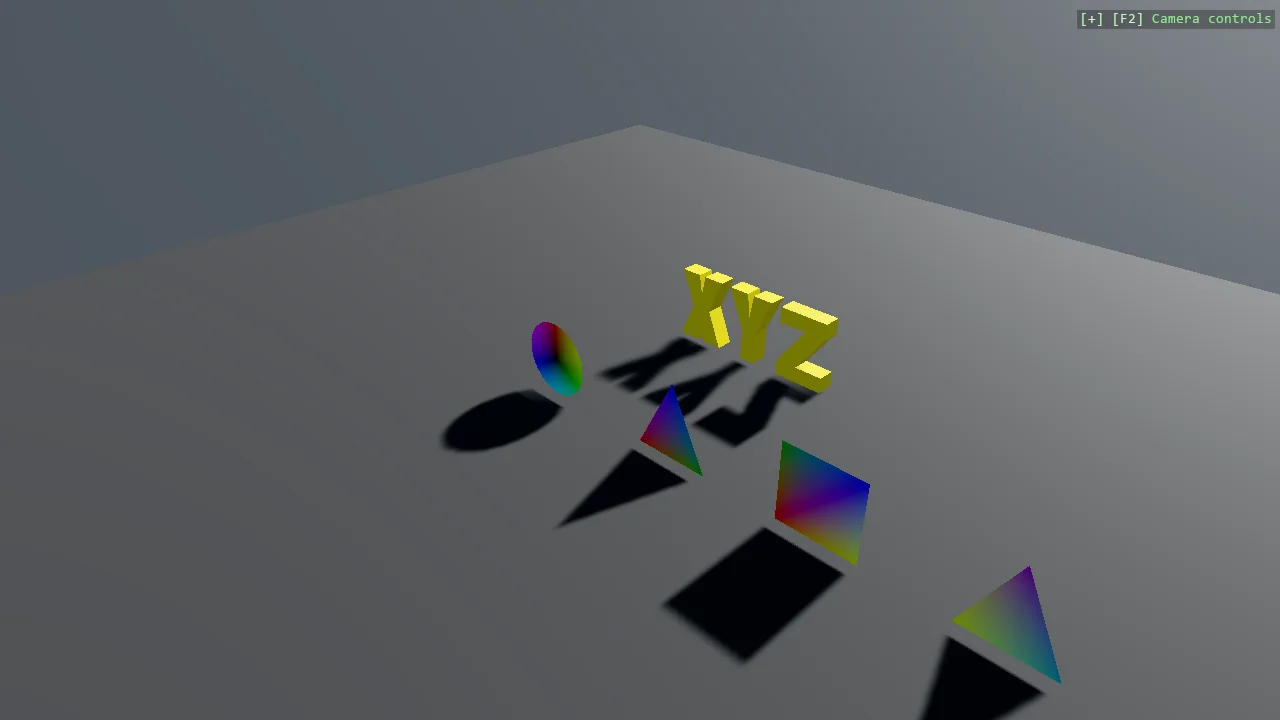
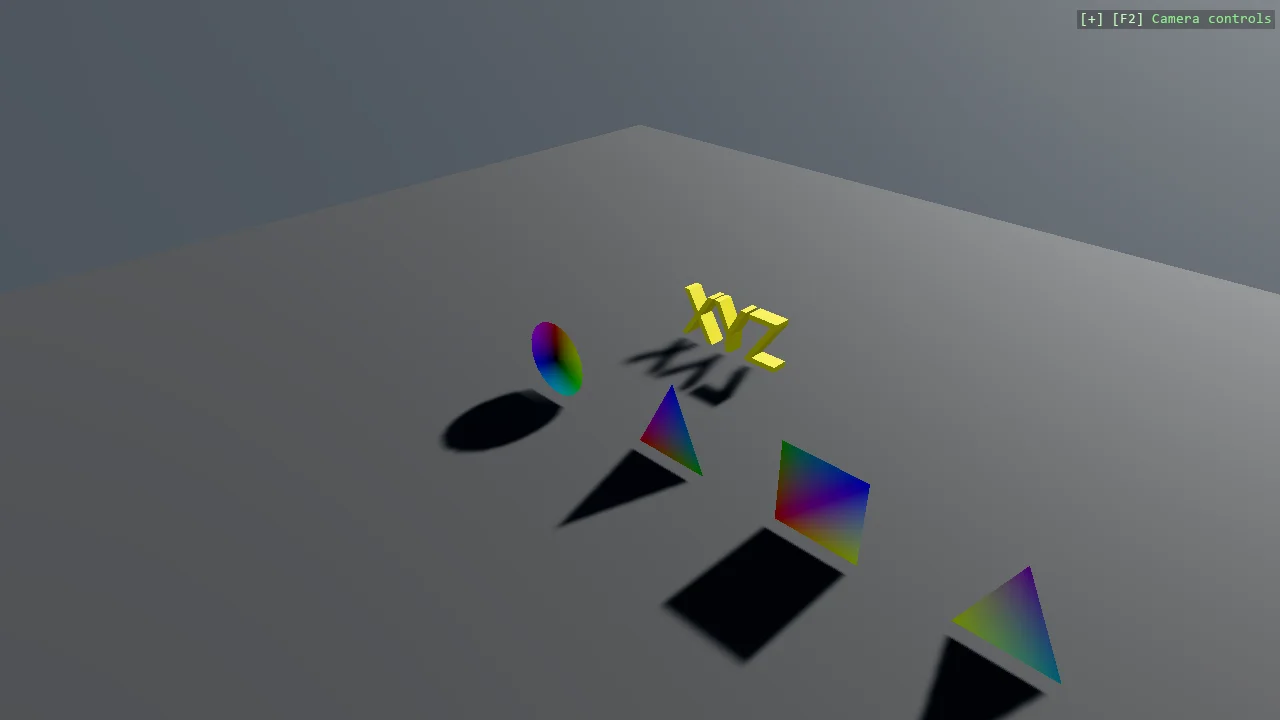
feat(rendering)!: replace 3D letters with font-based text
- Add the TextMesh and MeshFont 3D text example
- Add rendering/text-3d.md with font loading and mesh guidance
- Update documentation navigation, glossary, and mesh-builder guidance
- Document LetterMeshFactory removal and migration guidance
- Update examples, metadata, screenshots, and release notes
- Refresh procedural geometry and text rendering screenshots

BREAKING CHANGE: remove LetterMeshFactory in favor of TextMesh, MeshFont, and TextMeshOptions

Changed region(s): [[0.4688, 0.3667, 0.6562, 0.6417]]

diff --git a/docs/manual/rendering/text-3d.md b/docs/manual/rendering/text-3d.md
@@ -1,0 +1,120 @@
+# 3D Text
+
+`TextMesh` builds solid lettering from a real font: each glyph's outline is read from the font file,
+triangulated, holes and all, and extruded along Z into a mesh with a front cap, a back cap and
+flat-shaded walls. The result is geometry: it is lit and shadowed, takes any material, casts a
+shadow, and can carry a physics body. For ordinary text, labels and HUDs, [Entity Text](entity-text.md)
+and [World Text](world-text.md) draw a font far more cheaply; this is for lettering that is meant to be a
+thing in the world, a title, a sign, a logo, a word that falls.
+
+`MeshFont`, `TextMesh`, `TextMeshOptions` and `GlyphOutline` live in the
+`Stride.CommunityToolkit.Rendering.Text` namespace; `Primitive3D.Text` in
+`Stride.CommunityToolkit.Rendering.ProceduralModels`.
+
+```csharp
+var entity = new Entity("Title")
+{
+    new ModelComponent
+    {
+        Model = new Model
+        {
+            new MaterialInstance { Material = game.CreateMaterial(Color.Gold) },
+            new Mesh { Draw = TextMesh.CreateMeshDraw(game.GraphicsDevice, MeshFont.Default, "Hello"), MaterialIndex = 0 },
+        },
+    },
+};
+```
+
+## Fonts
+
+A `MeshFont` is a font file opened for its outlines, through the FreeType library the engine ships on
+every platform, so TrueType, OpenType (CFF) and font collections all work.
+
+- `MeshFont.Default` is an Open Sans Regular embedded in the toolkit (Apache 2.0): lettering works with
+  no font file at hand, and gives the same shapes on every machine.
+- `MeshFont.Load(path)` and `MeshFont.Load(bytes)` open any file. Dispose the font when its outlines are
+  no longer needed; glyphs are read once and cached, and a font is safe to share between threads.
+- `MeshFont.FromFamily("Segoe UI", FontStyle.Bold)` finds an installed family through `SystemFonts`,
+  and is `null` when the machine has no such font, so a fallback reads `?? MeshFont.Default`.
+
+Outlines are in EM units: a capital letter is about 0.7 high, the baseline is y = 0, and
+`MeshFont.LineHeight`, `Ascent` and `Descent` are the font's own. `font.GetGlyph('A')` returns the
+`GlyphOutline`: contours as curves, the advance, the bounds; `Flatten()` turns them into polygons
+with their holes sorted out, which is also what a ShapeBatch outline of a letter would draw.
+
+Kerning comes from the font's legacy kern table only. Modern fonts keep it in GPOS, which FreeType
+does not read without a shaping engine, so `GetKerning` is 0 for most fonts, including the default.
+`TextMeshOptions.LetterSpacing` tunes the fit by hand.
+
+## Options
+
+| Option | Default | What it does |
+|---|---|---|
+| `Size` | 1 | World units per EM. A capital comes out about 0.7 of this tall. |
+| `Depth` | 0.25 | How far the lettering extends along Z, centred on zero. |
+| `CurveQuality` | 32 | Points a full turn of curve gets: a quarter-turn bowl gets a quarter of them. 16 is still smooth at a distance; 64 for a logo the camera gets close to. |
+| `Anchor` | `null` | Which point of the text block sits at the origin. `null` is the typographic origin: the first baseline at y = 0, the pen at x = 0. The nine `TextAnchor` points use the font's ascent-to-descent block over every line, so the anchor does not move with the letters used. |
+| `LetterSpacing` | 0 | Extra space after every glyph, in EM units; negative tightens. |
+| `LineSpacing` | 1 | The distance between lines as a multiple of the font's line height. |
+| `Alignment` | `Left` | How lines of different widths line up: `Left`, `Center`, `Right`. |
+| `Kerning` | `true` | Apply the font's pair kerning where the font has a kern table. |
+
+`\n` starts a new line. `TextMesh.Measure(font, text, options)` gives the block as a `BoundingBox`
+without building the mesh.
+
+```csharp
+var options = new TextMeshOptions
+{
+    Size = 0.4f,
+    Depth = 0.1f,
+    Alignment = TextAlignment.Center,
+    LineSpacing = 0.9f,
+    Anchor = TextAnchor.TopCenter,
+};
+
+var draw = TextMesh.CreateMeshDraw(game.GraphicsDevice, MeshFont.Default, "two lines\nof text", options);
+```
+
+## The mesh
+
+`TextMesh.Create` returns `GeometricMeshData<VertexPositionNormalTexture>`, CPU data; the
+`ToMeshDraw(device)` extension uploads it, and `TextMesh.CreateMeshDraw` does both. Vertices carry a
+position, a normal and texture coordinates: the caps are mapped across the text's block (0..1 left to
+right, 0..1 top to bottom) and each wall runs 0..1 along its contour and 0..1 front to back, so a
+texture or a shader can follow the lettering.
+
+The caller owns the buffers of a draw. Lettering built once costs nothing after that; text that
+changes must dispose the old buffers before the new mesh goes in, or it leaks a buffer pair per
+rebuild. `E03_3D_MeshText` shows the pattern in its frame counter.
+
+## A body per word, or per letter
+
+`Primitive3D.Text` makes lettering a shape like any other, so `game.CreatePrimitive` gives it a material
+and, with a physics engine chosen, a collider: one convex hull per glyph. A hull fills a glyph's holes
+and bays, so an O collides as a disc, which is right for letters that tumble and pile up.
+
+```csharp
+var word = game.CreatePrimitive(Primitive3D.Text("Drop", size: 0.7f, depth: 0.3f), new Bepu3DPhysicsOptions { Material = material });
+word.Transform.Position = new Vector3(0, 4, 0);
+word.Scene = scene;
+```
+
+`TextMesh.CreateGlyphs` returns one mesh per glyph, each centred on itself and told where it sits in
+the text, for a body or an animation per letter; `E20_3D_CubeCollapse` drops its GAME OVER that way.
+Lettering that must be walked into or shot through its holes wants a `MeshCollider` on a static, see
+[Physics extensions](../physics-extensions/index.md).
+
+## Limits
+
+- A mesh is for words and titles, not pages: a paragraph is thousands of triangles per line. Sprite
+  fonts are for text.
+- Fonts whose contours overlap each other (some composite glyphs, variable fonts) are not
+  triangulated; the glyph is reported, not mangled.
+- No bevel yet, no right-to-left, no wrapping.
+
+## Examples
+
+- [`E03_3D_MeshText`](../code-only/examples/letters-3d.md): the embedded font, an installed font, lines
+  that align, a frame counter, and a word with physics.
+- [`E07_3D_ProceduralGeometry`](../code-only/examples/procedural-geometry.md): lettering among other
+  meshes built in code.

diff --git a/docs/release-notes/index.md b/docs/release-notes/index.md
@@ -12,9 +12,28 @@ The Stride Community Toolkit is developed with rapid iteration in mind. It moves
 
 ### 💥 Breaking Changes
 
+#### Lettering comes from fonts
+
+`LetterMeshFactory`, with its 38 hand-authored glyphs, is gone; `TextMesh` builds solid lettering from any font, with the toolkit's embedded Open Sans as the default.
+
+| Before | After | Note |
+|---|---|---|
+| `LetterMeshFactory.CreateTextMeshDraw(device, "XYZ")` | `TextMesh.CreateMeshDraw(device, MeshFont.Default, "XYZ")` | In `Stride.CommunityToolkit.Rendering.Text`. Any character the font has, upper and lower case, digits, punctuation. |
+| `CreateTextMeshDraw(..., depth: 0.3f, spacing: 0.1f, centerOrigin: true)` | `new TextMeshOptions { Depth = 0.3f, LetterSpacing = 0.1f, Anchor = TextAnchor.MiddleCenter }` | `Size` is world units per EM; the old glyphs were one unit tall, a capital is now about 0.7 of `Size`. |
+| `LetterMeshFactory.SupportedCharacters`, `TryGetOutlines` | `font.HasGlyph(c)`, `font.GetGlyph(c)` | A glyph the font lacks draws its "missing glyph" box instead of throwing. |
+
+- `EarClipping.Triangulate(outer, holes)` is new; the one-polygon overload is unchanged. `MeshBuilder.AddExtrudedPolygon` is unchanged.
+
 ### 🎉 New Features
 
+- `MeshFont`: a font file opened for its glyph outlines through the FreeType the engine ships, so TrueType, OpenType and collections work on every platform. `MeshFont.Default` is an embedded Open Sans Regular; `Load(path)`, `Load(bytes)` and `FromFamily(family, style)` open any other. Outlines come back in EM units as curves (`GlyphOutline`, `GlyphContour`, `OutlineSegment`) and flatten into polygons with their holes sorted out (`GlyphShape`).
+- `TextMesh`: solid 3D text from a `MeshFont`. `Create` gives CPU mesh data, `CreateMeshDraw` uploads it, `CreateGlyphs` gives one centred mesh per glyph for a body or an animation per letter, `Measure` gives the block. Lines, alignment, letter and line spacing, curve quality, the nine-point anchor, and texture coordinates on caps and walls, through `TextMeshOptions`.
+- `Primitive3D.Text`: lettering as a shape, so `CreatePrimitive` gives it a material and a collider of one convex hull per glyph, on Bepu (`TextCollider`) and on Bullet.
+- `ToMeshDraw(device)` on `GeometricMeshData<VertexPositionNormalTexture>`, for any procedural mesh data.
+
 ### 🐞 Bug Fixes
+
+- `E20_3D_CubeCollapse`: the tower spread apart as it spawned. Since the scene setup chose Bepu (preview.67), `CreatePrimitive` gave every cube a dynamic body of its own on top of the spawner's `SlidingCubeComponent`, and the two pushed each other apart; the cube is now created with `IncludePhysics = false`.
 
 ### 🎨 Rendering
 
@@ -25,10 +44,12 @@ The Stride Community Toolkit is developed with rapid iteration in mind. It moves
 
 ### 📄 Docs
 
-- The glossary is in the top navigation, and defines gizmo and mesh collider.
+- The glossary is in the top navigation, and defines gizmo, mesh collider, glyph and EM.
+- A manual page for 3D text (`rendering/text-3d.md`); the MeshBuilder page points at it.
 
 ### 🎓 Examples
 
+- `E03_3D_MeshText` is 3D text from a font: the embedded font, an installed font found by family, lines that align in one mesh, the frame counter, and a word with physics through `Primitive3D.Text`. `E07_3D_ProceduralGeometry` and `E20_3D_CubeCollapse` use `TextMesh` for their lettering.
 - `E05_3D_MeshColliders`: a convex hull against a mesh collider on the same ring model, with a ball resting on the hull's lid and falling through the mesh's hole; a mesh sphere with a ball outside and one inside shows that a mesh has no inside; a moving mesh ring lands on a mesh ring. The overlay prints where each dropped thing came to rest, measured, and P draws the colliders.
 - A grabber in every Bepu example with bodies to pick up and a free left mouse button: `E01_2D_FallingShapes`, `E02_2D_Primitives`, `E04_2D_SpawnMenu`, `E05_2D_FallingShapes`, `E08_2D_DebugRender`, `E10_2D_StressPile`, `E01_3D_FallingShapes`, `E08_3D_CollidableGizmo` and `E08_3D_DebugRenderComponent`, one line each; the overlay says so where there is one.
 

diff --git a/docs/manual/code-only/examples/letters-3d.md b/docs/manual/code-only/examples/letters-3d.md
@@ -3,25 +3,27 @@ generated: true
 slug: letters-3d
 ---
 
-# 3D Letters (Mesh Text)
+# 3D Text from a Font
 
-A gallery of every glyph LetterMeshFactory can build - the digits, the full A-Z alphabet and
-the dash - as solid extruded meshes that catch the light like any other geometry, plus a frame
-counter whose digits are rebuilt as a new mesh every frame. The counter demonstrates the one
-rule of dynamic mesh text: dispose the old GPU buffers before swapping in the new mesh, or leak
-a buffer pair per rebuild.
+Solid 3D text from a real font: TextMesh reads a font's glyph outlines through the FreeType the
+engine ships, triangulates them, holes and all, and extrudes them into meshes that are lit and
+shadowed like any other geometry. On show: the Open Sans embedded in the toolkit, an installed
+font found by family name, several lines that align in one mesh, a frame counter whose digits
+are rebuilt as a new mesh every frame, and a word with physics through Primitive3D.Text, dropped
+on the ground with one convex hull per glyph. The counter demonstrates the one rule of dynamic
+mesh text: dispose the old GPU buffers before swapping in the new mesh, or leak a buffer pair per
+rebuild.
 
 The `Program.cs` file shows how to:
 
-- Solid 3D lettering from code: LetterMeshFactory.CreateTextMeshDraw
-- Which characters exist - SupportedCharacters - and why fonts are not involved
-- Static lettering built once versus text that changes
-- Rebuilding a mesh safely: dispose the old buffers first
-- centerOrigin for strings centred on their entity
-- When to use EntityTextComponent or WorldTextComponent instead
+- Solid 3D lettering from any font: TextMesh.CreateMeshDraw with MeshFont.Default, Load or FromFamily
+- TextMeshOptions - size per EM, depth, anchor, alignment, line spacing, curve quality
+- A word as a primitive with a body - Primitive3D.Text through CreatePrimitive
+- Static lettering built once versus text that changes, and releasing the old buffers
+- Using helpers: SceneSetup3D, AddAllDirectionLighting, CreatePrimitive, DebugOverlay
 
-![3D Letters (Mesh Text)](media/letters-3d.webp)
+![3D Text from a Font](media/letters-3d.webp)
 
 View on [GitHub](https://github.com/stride3d/stride-community-toolkit/tree/main/examples/code-only/E03_3D_MeshText).
 
-[!code-csharp[](../../../../examples/code-only/E03_3D_MeshText/Program.cs?start=1&end=82)]
+[!code-csharp[](../../../../examples/code-only/E03_3D_MeshText/Program.cs?start=1&end=142)]

diff --git a/docs/manual/glossary.md b/docs/manual/glossary.md
@@ -44,6 +44,8 @@ is, and sorted alphabetically inside each group. Use your browser's find (Ctrl+F
 - **Asset**: A file the engine compiles and loads: a model, texture, sound, scene. Code-only games make most content at runtime instead. See [Assets](https://doc.stride3d.net/latest/en/manual/assets/index.html).
 - **Asset compiler**: The tool that turns assets into runtime data; even a code-only game runs it once, to copy the engine's shader sources into its `data/db` folder. See [Troubleshooting](troubleshooting.md).
 - **Content manager**: `game.Content`, the loader for compiled assets by URL. Code-only games rarely need it. See [Asset URL](https://doc.stride3d.net/latest/en/manual/scripts/create-a-model-from-code.html).
+- **EM**: A font's own unit of size: the design grid every glyph is drawn on, which maps to the font size when text is set. The toolkit's outlines and `TextMeshOptions.Size` are in EM units, so a capital letter is about 0.7 EM tall whatever the font. See [3D Text](rendering/text-3d.md).
+- **Glyph**: The shape a font draws for a character: one or more closed curves (contours), some of them holes, with an advance that says how far the pen moves after it. `MeshFont` reads glyph outlines from a font file, and `TextMesh` extrudes them. See [3D Text](rendering/text-3d.md).
 - **Index buffer**: The list of vertex indices that says which vertices form each triangle, so a vertex shared by six triangles is stored once. See [MeshBuilder](rendering/mesh-builder.md).
 - **PBR** (physically based rendering): Describing a surface by what it is made of - a colour, how metallic it is, how rough - and computing the light from those claims, instead of tuning highlights by eye. Stride's materials are PBR; the toolkit's `CreateMaterial` takes the three numbers. See [Materials from code](rendering/materials.md).
 - **Material**: How a surface reacts to light: colour, roughness, metalness, emission, transparency. In code it is built from a `MaterialDescriptor`; `game.CreateMaterial(...)` wraps the common case. See [Engine patterns](engine-patterns.md) and [Materials](https://doc.stride3d.net/latest/en/manual/graphics/materials/index.html).

diff --git a/docs/manual/code-only/examples/intermediate-examples.md b/docs/manual/code-only/examples/intermediate-examples.md
@@ -14,7 +14,7 @@ A Stride subsystem used directly, or several concepts combined. These assume you
 - [Material Preview](material-preview.md): Game Studio's material thumbnail rebuilt in code, with the editor's own numbers: the forward renderer with no post effects on a grey background, a camera pitched and turned the same way, the three thumbnail lights, and the model scaled to its unit bounding sphere.
 - [Cylinder Mesh](cylinder-mesh.md): A cylinder generated with MeshBuilder, split into the three jobs any surface of revolution needs: place a ring of vertices, join consecutive rings into side walls, then close both ends with caps.
 - [Partial Torus Mesh](partial-torus-mesh.md): A torus defined parametrically from two angles - one around the tube, one around the ring - and cut short by limiting the second, which turns the same code into an arc, a horseshoe or a full ring without special cases.
-- [3D Letters (Mesh Text)](letters-3d.md): A gallery of every glyph LetterMeshFactory can build - the digits, the full A-Z alphabet and the dash - as solid extruded meshes that catch the light like any other geometry, plus a frame counter whose digits are rebuilt as a new mesh every frame.
+- [3D Text from a Font](letters-3d.md): Solid 3D text from a real font: TextMesh reads a font's glyph outlines through the FreeType the engine ships, triangulates them, holes and all, and extrudes them into meshes that are lit and shadowed like any other geometry.
 - [Give Me a Cube (SimulationUpdate)](simulation-update.md): Drive an entity from the physics clock instead of the render loop.
 - [Raycast](raycast.md): Click the ground and a sphere is kicked towards where you clicked; click the sphere and it stops dead.
 - [Ship HUD](hud.md): A cockpit HUD composed from the toolkit's shapes and world text, with one widget per file.

diff --git a/docs/manual/code-only/examples/index.md b/docs/manual/code-only/examples/index.md
@@ -438,11 +438,11 @@ Prefer a list? Each level has its own page, linked from the table of contents.
     </div>
     <div class="col-xxl-4 col-md-6">
         <div class="card h-100">
-            <img src="media/letters-3d.webp" class="card-img-top" alt="Screenshot of the 3D Letters (Mesh Text) example" width="1280" height="720" loading="lazy">
+            <img src="media/letters-3d.webp" class="card-img-top" alt="Screenshot of the 3D Text from a Font example" width="1280" height="720" loading="lazy">
             <div class="card-body">
-                <h3 class="card-title h6"><a class="stretched-link text-decoration-none text-body" href="letters-3d.md">3D Letters (Mesh Text)</a></h3>
+                <h3 class="card-title h6"><a class="stretched-link text-decoration-none text-body" href="letters-3d.md">3D Text from a Font</a></h3>
                 <p><span class="badge text-bg-secondary">Text</span></p>
-                <p class="card-text">A gallery of every glyph LetterMeshFactory can build - the digits, the full A-Z alphabet and the dash - as solid extruded meshes that catch the light...</p>
+                <p class="card-text">Solid 3D text from a real font: TextMesh reads a font's glyph outlines through the FreeType the engine ships, triangulates them, holes and all, and...</p>
             </div>
         </div>
     </div>

diff --git a/docs/manual/rendering/mesh-builder.md b/docs/manual/rendering/mesh-builder.md
@@ -172,17 +172,9 @@ var normal = meshBuilder.WithNormal<Vector3>();
 meshBuilder.AddExtrudedPolygon(outline, depth: 0.25f, position, normal);
 ```
 
-Built on top of it, `LetterMeshFactory` produces solid 3D lettering from glyph outlines authored in
-code - real geometry that is lit and shadowed, unlike the font-based `EntityTextComponent` and
-`WorldTextComponent`:
-
-```csharp
-var draw = LetterMeshFactory.CreateTextMeshDraw(graphicsDevice, "XYZ");
-```
-
-Only the characters in `LetterMeshFactory.SupportedCharacters` exist; each new glyph is a small
-hand-authored polygon, which is the price of staying cross-platform - extracting real font outlines
-at runtime would require DirectWrite, which is Windows-only.
+Lettering from a real font, holes and all, is [3D Text](text-3d.md): `TextMesh` reads a font's
+glyph outlines, triangulates them with `EarClipping.Triangulate(outer, holes)` and extrudes them the
+same way.
 
 ## Custom pixel formats
 
